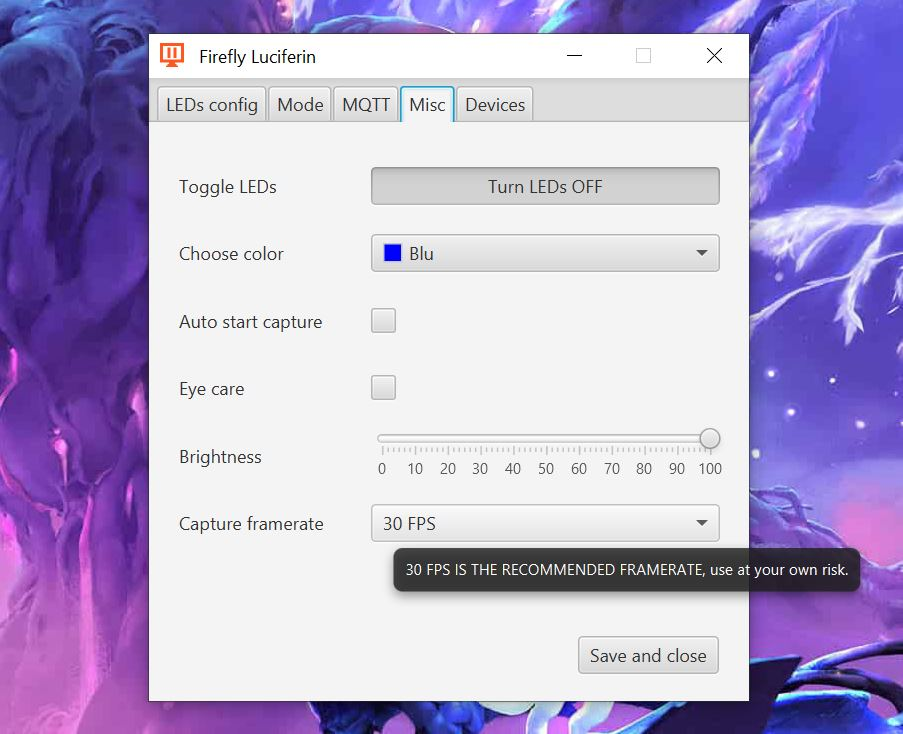
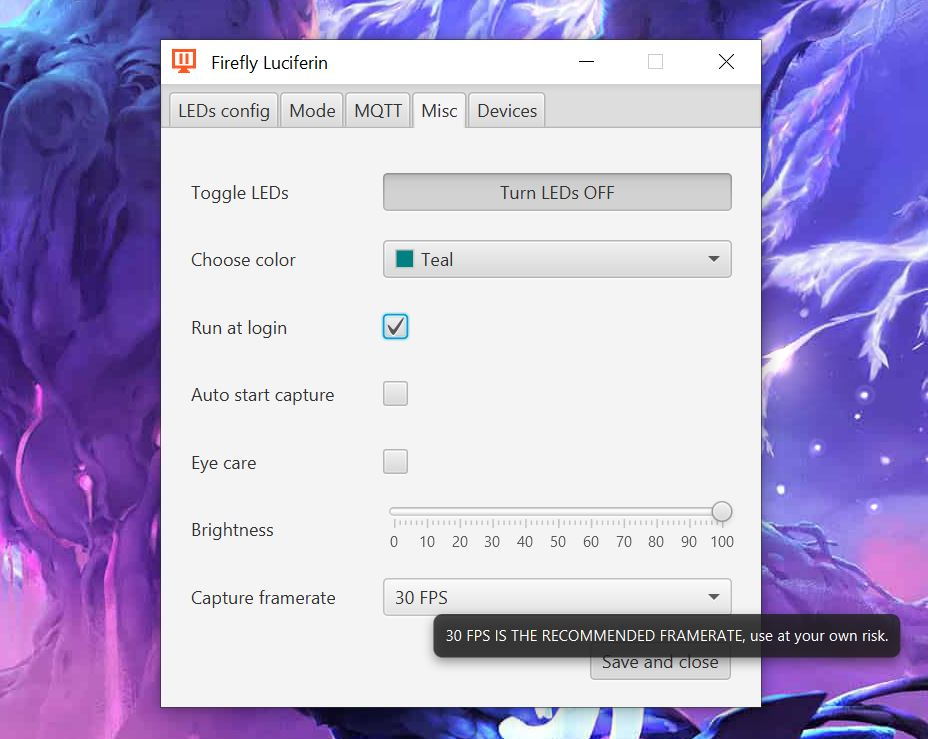
Launch at start (#26)

diff --git a/src/main/java/org/dpsoftware/gui/SettingsController.java b/src/main/java/org/dpsoftware/gui/SettingsController.java
@@ -43,6 +43,7 @@ import javafx.stage.Stage;
 import javafx.util.Duration;
 import org.dpsoftware.FireflyLuciferin;
 import org.dpsoftware.LEDCoordinate;
+import org.dpsoftware.NativeExecutor;
 import org.dpsoftware.StorageManager;
 import org.dpsoftware.config.Configuration;
 import org.dpsoftware.config.Constants;
@@ -82,6 +83,7 @@ public class SettingsController {
     @FXML private PasswordField mqttPwd;
     @FXML private CheckBox mqttEnable;
     @FXML private CheckBox mqttStream;
+    @FXML private CheckBox startWithSystem;
     @FXML private CheckBox checkForUpdates;
     @FXML private TextField topLed;
     @FXML private TextField leftLed;
@@ -183,7 +185,7 @@ public class SettingsController {
         } else {
             producerLabel.textProperty().bind(producerValueProperty());
             consumerLabel.textProperty().bind(consumerValueProperty());
-            version.setText(Constants.BY_DAVIDE.replaceAll(Constants.VERSION, Constants.FIREFLY_LUCIFERIN_VERSION));
+            version.setText(Constants.BY_DAVIDE.replaceAll(Constants.VERSION, FireflyLuciferin.version));
             new AnimationTimer() {
                 @Override
                 public void handle(long now) {
@@ -263,7 +265,7 @@ public class SettingsController {
      */
     void initDefaultValues(Configuration currentConfig) {
 
-        versionLabel.setText(Constants.FIREFLY_LUCIFERIN + " (v" + Constants.FIREFLY_LUCIFERIN_VERSION + ")");
+        versionLabel.setText(Constants.FIREFLY_LUCIFERIN + " (v" + FireflyLuciferin.version + ")");
         brightness.setMin(0);
         brightness.setMax(100);
         brightness.setMajorTickUnit(10);
@@ -329,6 +331,9 @@ public class SettingsController {
      */
     private void initValuesFromSettingsFile(Configuration currentConfig) {
 
+        if (com.sun.jna.Platform.isWindows()) {
+            startWithSystem.setSelected(currentConfig.isStartWithSystem());
+        }
         screenWidth.setText(String.valueOf(currentConfig.getScreenResX()));
         screenHeight.setText(String.valueOf(currentConfig.getScreenResY()));
         ledStartOffset.setText(String.valueOf(currentConfig.getLedStartOffset()));
@@ -418,6 +423,13 @@ public class SettingsController {
                 case WinAPI -> config.setCaptureMethod(Configuration.CaptureMethod.WinAPI.name());
                 case CPU -> config.setCaptureMethod(Configuration.CaptureMethod.CPU.name());
             }
+            NativeExecutor nativeExecutor = new NativeExecutor();
+            if (startWithSystem.isSelected()) {
+                nativeExecutor.writeRegistryKey();
+            } else {
+                nativeExecutor.deleteRegistryKey();
+            }
+            config.setStartWithSystem(startWithSystem.isSelected());
         } else if (com.sun.jna.Platform.isMac()) {
             if (captureMethod.getValue() == Configuration.CaptureMethod.AVFVIDEOSRC) {
                 config.setCaptureMethod(Configuration.CaptureMethod.AVFVIDEOSRC.name());
@@ -640,6 +652,7 @@ public class SettingsController {
         gamma.setTooltip(createTooltip(Constants.TOOLTIP_GAMMA));
         if (com.sun.jna.Platform.isWindows()) {
             captureMethod.setTooltip(createTooltip(Constants.TOOLTIP_CAPTUREMETHOD));
+            startWithSystem.setTooltip(createTooltip(Constants.TOOLTIP_START_WITH_SYSTEM));
         } else if (com.sun.jna.Platform.isMac()) {
             captureMethod.setTooltip(createTooltip(Constants.TOOLTIP_MACCAPTUREMETHOD));
         } else {

diff --git a/src/main/java/org/dpsoftware/NativeExecutor.java b/src/main/java/org/dpsoftware/NativeExecutor.java
@@ -29,6 +29,8 @@ import java.util.ArrayList;
 import java.util.Arrays;
 import java.util.List;
 
+import com.sun.jna.platform.win32.Advapi32Util;
+import com.sun.jna.platform.win32.WinReg;
 import lombok.NoArgsConstructor;
 import org.dpsoftware.config.Constants;
 import org.slf4j.Logger;
@@ -85,6 +87,52 @@ public final class NativeExecutor {
         }
 
         return sa;
+
+    }
+
+    /**
+     * Write Windows registry key to Launch Firefly Luciferin when system starts
+     */
+    public void writeRegistryKey() {
+
+        String installationPath = getInstallationPath();
+        if (!installationPath.isEmpty()) {
+            logger.debug("Writing Windows Registry key");
+            Advapi32Util.registrySetStringValue(WinReg.HKEY_CURRENT_USER, Constants.REGISTRY_KEY_PATH,
+                    Constants.REGISTRY_KEY_NAME, installationPath);
+        }
+        logger.debug(Advapi32Util.registryGetStringValue(WinReg.HKEY_CURRENT_USER,
+                Constants.REGISTRY_KEY_PATH, Constants.REGISTRY_KEY_NAME));
+
+    }
+
+    /**
+     * Remove Windows registry key used to Launch Firefly Luciferin when system starts
+     */
+    public void deleteRegistryKey() {
+
+        if (Advapi32Util.registryValueExists(WinReg.HKEY_CURRENT_USER, Constants.REGISTRY_KEY_PATH,
+                Constants.REGISTRY_KEY_NAME)) {
+            Advapi32Util.registryDeleteValue(WinReg.HKEY_CURRENT_USER, Constants.REGISTRY_KEY_PATH,
+                    Constants.REGISTRY_KEY_NAME);
+        }
+
+    }
+
+    /**
+     * Get the installation path
+     * @return path
+     */
+    String getInstallationPath() {
+
+        String luciferinClassPath = FireflyLuciferin.class.getProtectionDomain().getCodeSource().getLocation().getPath();
+        logger.debug("Installation path={}", luciferinClassPath);
+        if (luciferinClassPath.contains(".jar")) {
+            return luciferinClassPath.replace("/", "\\")
+                    .substring(1, luciferinClassPath.length() - Constants.REGISTRY_JARNAME.length())
+                    .replace("%20", " ") + Constants.REGISTRY_KEY_VALUE;
+        }
+        return Constants.REGISTRY_DEFAULT_KEY_VALUE;
 
     }
 

diff --git a/src/main/java/org/dpsoftware/config/Constants.java b/src/main/java/org/dpsoftware/config/Constants.java
@@ -23,8 +23,6 @@ package org.dpsoftware.config;
 
 public class Constants {
 
-	public static final String FIREFLY_LUCIFERIN_VERSION = "1.5.0";
-
 	// Misc
 	public static final String FIREFLY_LUCIFERIN = "Firefly Luciferin";
 	public static final String FULLSCREEN = "FullScreen";
@@ -204,6 +202,7 @@ public class Constants {
 	public static final String TOOLTIP_EYE_CARE = "If enabled LEDs will never turn off in black scenes, a soft and gentle light is used instead.";
 	public static final String TOOLTIP_AUTOSTART = "Start capture on Firefly Luciferin startup";
 	public static final String TOOLTIP_MQTTSTREAM = "Prefer wireless stream over serial port (USB cable). This option is ignored if MQTT is disabled. Enable this option if you don't have the possibility to use a USB cable.";
+	public static final String TOOLTIP_START_WITH_SYSTEM = "Launch Firefly Luciferin when system starts";
 	public static final String TOOLTIP_CHECK_UPDATES = "Set and forget it to update Firefly Luciferin and Glow Worm Luciferin when updates are available. Automatic firmware upgrade is available on FULL version only";
 	public static final String TOOLTIP_PLAYBUTTON_NULL = "Please configure and save before capturing";
 	public static final String TOOLTIP_BRIGHTNESS = "Set the brightness of the LED strip";
@@ -252,5 +251,12 @@ public class Constants {
 	public static final String TARGET = "target";
 	public static final String MAIN_RES = "src/main/resources";
 	public static final String GSTREAMER_PATH_IN_USE = "GStreamer path in use=";
+
+	// Windows Registry
+	public static final String REGISTRY_KEY_PATH = "SOFTWARE\\Microsoft\\Windows\\CurrentVersion\\Run\\";
+	public static final String REGISTRY_KEY_NAME = "FireflyLuciferin";
+	public static final String REGISTRY_KEY_VALUE = "Firefly Luciferin.exe";
+	public static final String REGISTRY_DEFAULT_KEY_VALUE = "C:\\Users\\sblantipodi\\AppData\\Local\\Firefly Luciferin\\Firefly Luciferin.exe";
+	public static final String REGISTRY_JARNAME = "app\\FireflyLuciferin-jar-with-dependencies.jar";
 
 }

diff --git a/src/main/java/org/dpsoftware/FireflyLuciferin.java b/src/main/java/org/dpsoftware/FireflyLuciferin.java
@@ -48,9 +48,7 @@ import javax.swing.*;
 import java.awt.*;
 import java.io.IOException;
 import java.io.OutputStream;
-import java.util.ArrayList;
-import java.util.Arrays;
-import java.util.Collections;
+import java.util.*;
 import java.util.List;
 import java.util.concurrent.*;
 import java.util.concurrent.atomic.AtomicInteger;
@@ -97,6 +95,7 @@ public class FireflyLuciferin extends Application {
     public static int usbBrightness = 255;
     // MQTT
     MQTTManager mqttManager = null;
+    public static String version = "";
 
 
     /**
@@ -104,6 +103,7 @@ public class FireflyLuciferin extends Application {
      */
     public FireflyLuciferin() {
 
+        getCIComputedVersion();
         String ledMatrixInUse = "";
         try {
             loadConfigurationYaml();
@@ -181,6 +181,21 @@ public class FireflyLuciferin extends Application {
         }
         if (!config.isMqttEnable()) {
             manageSolidLed();
+        }
+
+    }
+
+    /**
+     * Extract project version computed from Continuous Integration
+     */
+    private void getCIComputedVersion() {
+
+        final Properties properties = new Properties();
+        try {
+            properties.load(this.getClass().getClassLoader().getResourceAsStream("project.properties"));
+            version = properties.getProperty("version");
+        } catch (IOException e) {
+            logger.error(e.getMessage());
         }
 
     }

diff --git a/src/main/java/org/dpsoftware/MQTTManager.java b/src/main/java/org/dpsoftware/MQTTManager.java
@@ -31,6 +31,7 @@ import org.dpsoftware.gui.GUIManager;
 import org.dpsoftware.gui.SettingsController;
 import org.dpsoftware.gui.elements.GlowWormDevice;
 import org.eclipse.paho.client.mqttv3.*;
+import org.eclipse.paho.client.mqttv3.persist.MemoryPersistence;
 import org.slf4j.Logger;
 import org.slf4j.LoggerFactory;
 
@@ -89,7 +90,8 @@ public class MQTTManager implements MqttCallback {
         } else {
             mqttDeviceName = Constants.MQTT_DEVICE_NAME_MAC;
         }
-        client = new MqttClient(FireflyLuciferin.config.getMqttServer(), mqttDeviceName);
+        MemoryPersistence persistence = new MemoryPersistence();
+        client = new MqttClient(FireflyLuciferin.config.getMqttServer(), mqttDeviceName, persistence);
         MqttConnectOptions connOpts = new MqttConnectOptions();
         connOpts.setAutomaticReconnect(true);
         connOpts.setCleanSession(true);

diff --git a/src/main/java/org/dpsoftware/gui/InfoController.java b/src/main/java/org/dpsoftware/gui/InfoController.java
@@ -32,8 +32,6 @@ import javafx.scene.control.Label;
 import javafx.scene.input.InputEvent;
 import javafx.stage.Stage;
 import org.dpsoftware.FireflyLuciferin;
-import org.dpsoftware.config.Constants;
-import org.dpsoftware.gui.UpgradeManager;
 
 public class InfoController {
 
@@ -51,7 +49,7 @@ public class InfoController {
         producerLabel.textProperty().bind(producerValueProperty());
         consumerLabel.textProperty().bind(consumerValueProperty());
         UpgradeManager vm = new UpgradeManager();
-        version.setText("by Davide Perini (VERSION)".replaceAll("VERSION", Constants.FIREFLY_LUCIFERIN_VERSION));
+        version.setText("by Davide Perini (VERSION)".replaceAll("VERSION", FireflyLuciferin.version));
         new AnimationTimer() {
             @Override
             public void handle(long now) {

diff --git a/src/main/java/org/dpsoftware/gui/UpgradeManager.java b/src/main/java/org/dpsoftware/gui/UpgradeManager.java
@@ -222,7 +222,7 @@ public class UpgradeManager {
     boolean checkFireflyUpdates(Stage stage, GUIManager guiManager) {
 
         logger.debug("Checking for Firefly Luciferin Update");
-        boolean fireflyUpdate = checkForUpdate(Constants.GITHUB_POM_URL, Constants.FIREFLY_LUCIFERIN_VERSION, false);
+        boolean fireflyUpdate = checkForUpdate(Constants.GITHUB_POM_URL, FireflyLuciferin.version, false);
         if (FireflyLuciferin.config.isCheckForUpdates() && fireflyUpdate) {
             String upgradeContext;
             if (com.sun.jna.Platform.isWindows()) {

diff --git a/src/main/java/org/dpsoftware/config/Configuration.java b/src/main/java/org/dpsoftware/config/Configuration.java
@@ -109,6 +109,7 @@ public class Configuration {
     private int brightness = 100;
     private int ledStartOffset = 0;
     private boolean splitBottomRow = true;
+    private boolean startWithSystem = false;
 
     // LED Matrix Map
     private Map<String, LinkedHashMap<Integer, LEDCoordinate>> ledMatrix;
